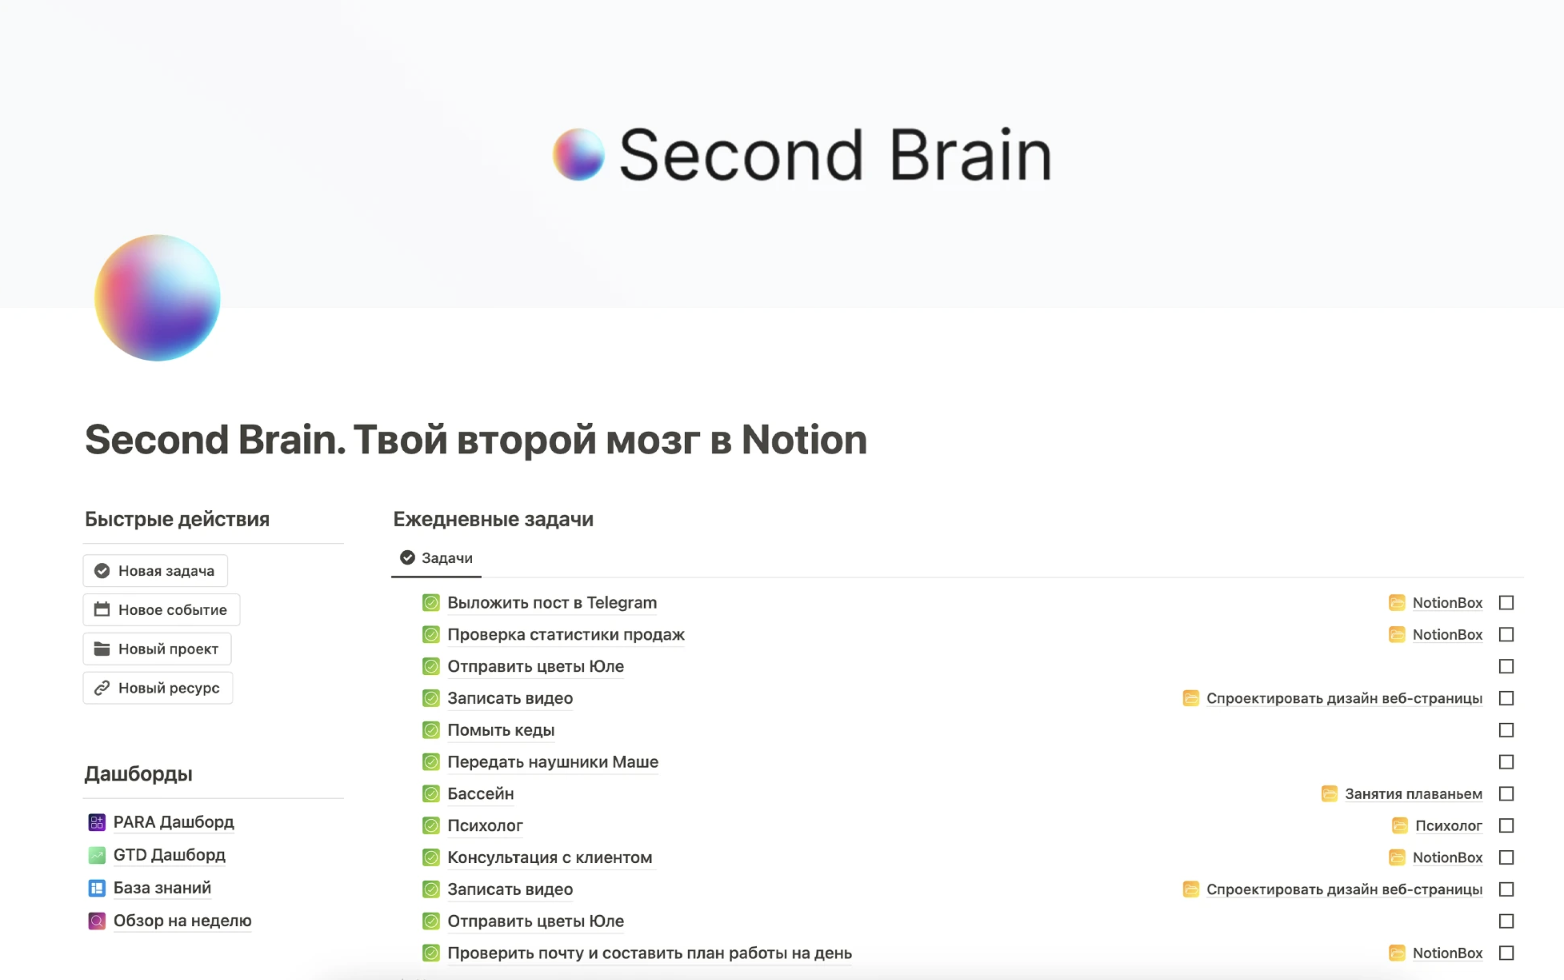
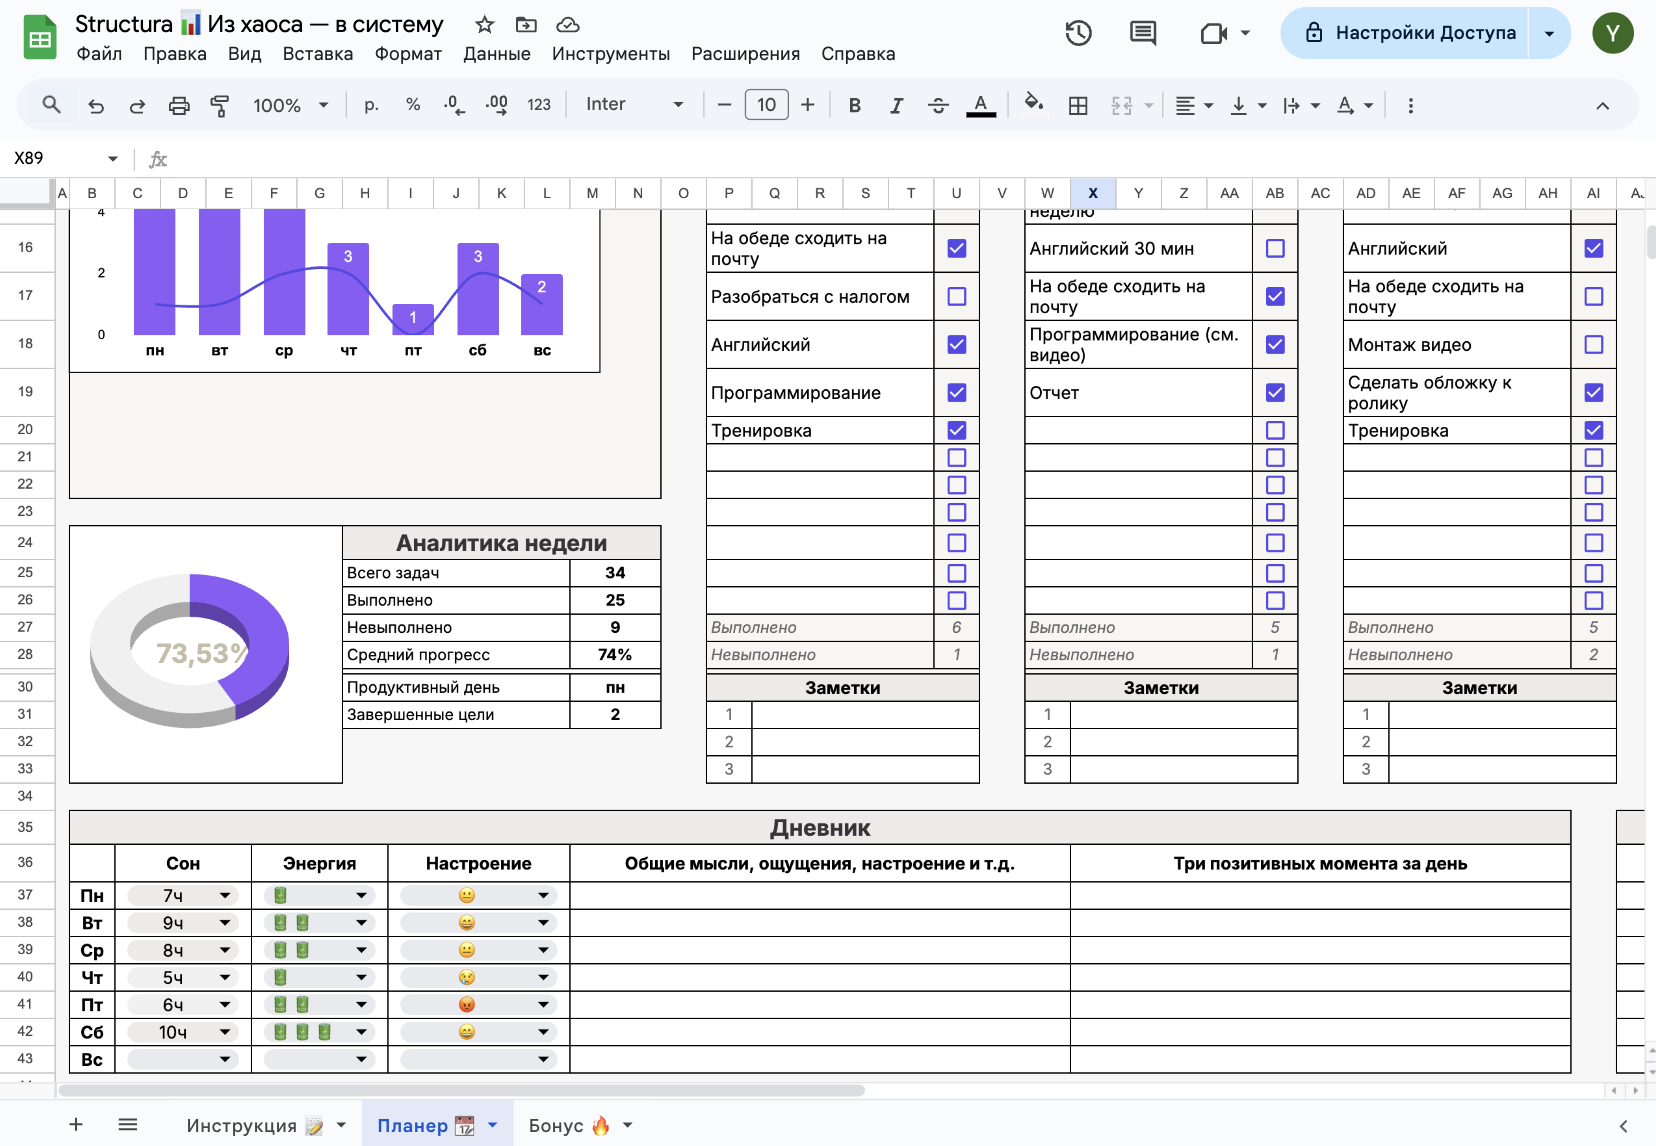
fix text

diff --git a/src/components/Hero.module.scss b/src/components/Hero.module.scss
@@ -4,23 +4,27 @@
   display: flex;
   flex-direction: column;
   align-items: center;
-  padding: 0 20px 20px 20px;
+  padding: 40px 20px 20px;
   text-align: center;
-  background: linear-gradient(180deg, #4f46e5 0%, #8b5cf6 40%, #ffffff 100%);
+  background: linear-gradient(180deg, #4f46e5 0%, #8b5cf6 45%, #ffffff 100%);
+}
+
+.logoLink {
+  display: inline-flex;
+  margin-bottom: 20px;
 }
 
 .logo {
   width: 120px;
   height: auto;
-  margin-bottom: 20px;
 }
 
 .title {
   font-size: 6rem;
   font-weight: 700;
   color: #ffffff;
-  margin-bottom: 10px;
-  text-shadow: 0 2px 8px rgba(0, 0, 0, 0.3);
+  margin-bottom: 8px;
+  text-shadow: 0 4px 14px rgba(0, 0, 0, 0.35);
 }
 
 .subtitle {
@@ -33,46 +37,37 @@
 .description {
   font-size: 1.1rem;
   color: #f3f4f6;
-  max-width: 740px;
-  margin-bottom: 10px;
-  line-height: 1.6;
-  text-shadow: 0 1px 2px rgba(0, 0, 0, 0.2);
-}
-
-.buttonGroup {
-  display: flex;
-  gap: 16px;
-  margin-top: 20px;
-  width: 740px;
+  max-width: 760px;
+  line-height: 1.65;
+  margin-bottom: 20px;
+  text-shadow: 0 1px 3px rgba(0, 0, 0, 0.25);
 }
 
 .price {
-  margin: 20px 0 0;
+  margin-top: 16px;
+  display: flex;
+  align-items: center;
+  gap: 14px;
   font-size: 2rem;
   font-weight: 700;
-  display: flex;
-  justify-content: center;
-  align-items: center;
-  gap: 16px;
 
   .current {
     color: #ffffff;
-    text-shadow: 0 1px 4px rgba(0, 0, 0, 0.3);
   }
 
   .old {
-    color: #c7d2e2;
-    text-decoration: line-through;
-    font-weight: 500;
     font-size: 1.2rem;
+    font-weight: 500;
+    color: #c7d2fe;
+    text-decoration: line-through;
   }
 }
 
 .note {
-  margin-top: 18px;
+  margin-top: 14px;
   font-size: 0.85rem;
   color: #e0e7ff;
-  opacity: 0.85;
+  opacity: 0.9;
   display: inline-flex;
   align-items: center;
   gap: 6px;
@@ -85,100 +80,85 @@
   transform: translateY(1px);
 }
 
-.button {
+.buttonGroup {
+  margin-top: 26px;
+  display: flex;
+  gap: 16px;
   width: 100%;
-  max-width: 400px;
+  max-width: 760px;
+}
+
+.button {
+  flex: 1;
   padding: 14px 0;
-  margin-top: 10px;
-  font-size: 1.1rem;
+  font-size: 1.05rem;
   font-weight: 600;
-  background-color: var.$primary-color;
-  color: #fff;
+  background-color: #ffffff;
+  color: var.$primary-color;
   border: none;
-  border-radius: 12px;
+  border-radius: 14px;
   cursor: pointer;
-  transition: background-color 0.2s, transform 0.2s;
-  text-align: center;
+  transition: transform 0.2s ease, box-shadow 0.2s ease;
 
   &:hover {
     transform: translateY(-2px);
-    box-shadow: 0 10px 25px rgba(79, 70, 229, 0.35);
-  }
-
-  &:active {
-    transform: translateY(0);
+    box-shadow: 0 14px 30px rgba(0, 0, 0, 0.25);
   }
 }
 
 .buttonOutline {
-  width: 100%;
-  max-width: 400px;
-  padding: 12px 0;
-  margin-top: 10px;
-  font-size: 1.1rem;
+  flex: 1;
+  padding: 14px 0;
+  font-size: 1.05rem;
   font-weight: 600;
   text-decoration: none;
-  background-color: transparent;
-  color: #e0e7ff;
-  border: 2px solid transparent;
-  border-radius: 12px;
-  cursor: pointer;
-  text-align: center;
-  transition: all 0.3s;
-  background-clip: padding-box;
+  color: #ffffff;
+  border-radius: 14px;
   position: relative;
-  z-index: 0;
+  z-index: 1;
+  overflow: hidden;
+  border: 2px solid transparent;
+  background: transparent;
+  transition: transform 0.2s ease, box-shadow 0.2s ease;
 
-  &:before {
+  &::before {
     content: "";
     position: absolute;
-    top: -2px;
-    left: -2px;
-    right: -2px;
-    bottom: -2px;
+    inset: 0;
     border-radius: 14px;
-    background: linear-gradient(90deg, #b5b1f4, #8b5cf6);
+    padding: 2px;
+    background: linear-gradient(90deg, #c7d2fe, #a78bfa);
+    -webkit-mask: linear-gradient(#fff 0 0) content-box,
+      linear-gradient(#fff 0 0);
+    -webkit-mask-composite: xor;
+    mask-composite: exclude;
     z-index: -1;
   }
 
   &:hover {
-    color: var.$primary-color;
     transform: translateY(-2px);
-    box-shadow: 0 10px 25px rgba(79, 70, 229, 0.35);
-  }
-
-  &:active {
-    transform: translateY(0);
+    box-shadow: 0 14px 30px rgba(0, 0, 0, 0.25);
   }
 }
 
-.videoWrapper {
-  margin-top: 30px;
+.videoSection {
+  margin-top: 48px;
   width: 100%;
-  max-width: 740px;
-
-  video {
-    width: 100%;
-    border-radius: 12px;
-    box-shadow: 0 10px 20px rgba(0, 0, 0, 0.1);
-  }
+  max-width: 960px;
+  aspect-ratio: 16 / 9;
+  border-radius: 22px;
+  overflow: hidden;
+  background: #000;
+  box-shadow: 0 30px 60px rgba(0, 0, 0, 0.35);
 }
 
-@media (max-width: 600px) {
-  .button {
-    font-size: 1rem;
-    margin-top: 0;
-  }
+.video {
+  width: 100%;
+  height: 100%;
+  object-fit: cover;
+}
 
-  .buttonOutline {
-    font-size: 1rem;
-    margin-top: 0;
-  }
-
-  .buttonOutline .title {
-    font-size: 2.5rem;
-  }
-
+@media (max-width: 768px) {
   .title {
     font-size: 4rem;
   }
@@ -193,8 +173,10 @@
 
   .buttonGroup {
     flex-direction: column;
-    align-items: center;
-    gap: 10px;
-    width: 100%;
+  }
+
+  .videoSection {
+    margin-top: 36px;
+    border-radius: 16px;
   }
 }

diff --git a/src/components/ProductInfo.tsx b/src/components/ProductInfo.tsx
@@ -18,12 +18,12 @@ const ProductInfo: React.FC = () => {
         <p className={styles.text}>
           Structura&nbsp;&mdash; это личная система планирования в&nbsp;формате
           Google-таблицы, которая превращает хаос задач в&nbsp;чёткий план
-          действий. Все цели, приоритеты, дедлайны и&nbsp;прогресс собраны
-          в&nbsp;одном месте, автоматически считаются и&nbsp;отображаются
-          в&nbsp;наглядных графиках. Вы&nbsp;в&nbsp;любой момент видите, куда
-          уходит время, что действительно важно сейчас и&nbsp;как
-          вы&nbsp;двигаетесь к&nbsp;результату&nbsp;&mdash; спокойно, структурно
-          и&nbsp;под полным контролем.
+          действий. Все цели, приоритеты и&nbsp;прогресс собраны в&nbsp;одном
+          месте, автоматически считаются и&nbsp;отображаются в&nbsp;наглядных
+          графиках. Вы&nbsp;в&nbsp;любой момент видите, куда уходит время, что
+          действительно важно сейчас и&nbsp;как вы&nbsp;двигаетесь
+          к&nbsp;результату&nbsp;&mdash; спокойно, структурно и&nbsp;под полным
+          контролем.
         </p>
       </div>
 
@@ -36,13 +36,13 @@ const ProductInfo: React.FC = () => {
             loop
           >
             <SwiperSlide>
-              <img src="/screens/screen-1.png" alt="Цели и чеклисты" />
+              <img src="/screens/screen-1.png" alt="Скриншот планер" />
             </SwiperSlide>
             <SwiperSlide>
-              <img src="/screens/screen-2.png" alt="Прогресс и аналитика" />
+              <img src="/screens/screen-2.png" alt="Скриншот планер" />
             </SwiperSlide>
             <SwiperSlide>
-              <img src="/screens/screen-3.png" alt="Дневник и привычки" />
+              <img src="/screens/screen-3.png" alt="Скриншот планер" />
             </SwiperSlide>
           </Swiper>
         </div>
@@ -50,7 +50,7 @@ const ProductInfo: React.FC = () => {
         <div className={styles.features}>
           <h3>Что входит в планер</h3>
           <ul>
-            <li>Цели недели с чек-листами и приоритетами</li>
+            <li>Цели недели с чек-листами</li>
             <li>Ежедневные задачи по дням</li>
             <li>Прогресс дня и недели (диаграммы)</li>
             <li>Трекер привычек и продуктивности</li>

diff --git a/src/components/Hero.tsx b/src/components/Hero.tsx
@@ -19,8 +19,8 @@ const Hero: React.FC = () => {
       <h1 className={styles.title}>Structura</h1>
       <h2 className={styles.subtitle}>Из хаоса — в систему</h2>
       <p className={styles.description}>
-        Ваш персональный планер, который превращает цели в&nbsp;чёткий план
-        действий: разбивает задачи на&nbsp;шаги, отслеживает прогресс
+        Ваш персональный планер на неделю, который превращает цели в&nbsp;чёткий
+        план действий: разбивает задачи на&nbsp;шаги, отслеживает прогресс
         и&nbsp;каждый день показывает, на&nbsp;чём действительно стоит
         сосредоточиться, чтобы достигать результатов без стресса.
       </p>
@@ -45,8 +45,16 @@ const Hero: React.FC = () => {
           Подробнее
         </a>
       </div>
-      <div className={styles.videoWrapper}>
-        <video src="/video/demo.mp4" controls className={styles.video} />
+      <div className={styles.videoSection}>
+        <video
+          src="/video/demo.mp4"
+          autoPlay
+          loop
+          muted
+          playsInline
+          preload="metadata"
+          className={styles.video}
+        />
       </div>
     </section>
   );

diff --git a/src/components/Advantages.tsx b/src/components/Advantages.tsx
@@ -16,9 +16,9 @@ const Advantages: React.FC = () => {
           <span className={styles.tag}>Цели</span>
           <h3 className={styles.title}>Для целей и повседневных задач</h3>
           <p className={styles.text}>
-            Когда нужно держать под контролем и&nbsp;большие цели на&nbsp;год
-            или квартал, и&nbsp;ежедневные дела. Structura помогает разложить
-            всё по&nbsp;полочкам, отслеживать прогресс, видеть реальную картину
+            Когда нужно держать под контролем и&nbsp;большие цели,
+            и&nbsp;ежедневные дела. Structura помогает разложить всё
+            по&nbsp;полочкам, отслеживать прогресс, видеть реальную картину
             в&nbsp;цифрах и&nbsp;графиках &mdash; без ощущения перегруза
             и&nbsp;хаоса.
           </p>

diff --git a/src/components/FAQ.tsx b/src/components/FAQ.tsx
@@ -7,12 +7,12 @@ const faqs = [
   {
     question: "Как быстро я получу доступ к планеру?",
     answer:
-      "После оплаты на вашу почту придёт письмо со ссылкой на Google Таблицу. Откройте её и выберите «Создать копию» — можно сразу начинать работу.",
+      "После оплаты на вашу почту придёт письмо со ссылкой на Google Таблицу. Откройте её и выберите «Создать копию» — можно сразу начинать работу. Внутри вы найдёте понятную инструкцию, как работать в планере.",
   },
   {
     question: "Нужно ли что-то устанавливать?",
     answer:
-      "Таблица работает прямо в браузере. Для работы нужен только Google-аккаунт (если у вас есть Gmail или YouTube, то значит Google-аккаунт уже есть).",
+      "Таблица работает прямо в браузере. Для работы нужен только Google-аккаунт (если у вас есть Gmail или YouTube, то значит Google-аккаунт у вас уже есть).",
   },
   {
     question: "Можно пользоваться на телефоне?",
@@ -22,7 +22,7 @@ const faqs = [
   {
     question: "Что делать, если письмо с таблицей не пришло?",
     answer:
-      "Проверьте папки «Спам» и «Промоакции». Если письма нет, напишите нам на [email redacted], указав e-mail, который использовался при оплате — мы поможем оперативно.",
+      "Проверьте папки «Спам» и «Промоакции». Если письма нет, пожалуйста, напишите нам на [email redacted], указав e-mail, который использовался при оплате — мы поможем оперативно.",
   },
 ];
 

diff --git a/src/components/BuySection.tsx b/src/components/BuySection.tsx
@@ -17,10 +17,8 @@ const BuySection: React.FC = () => {
         <div className={styles.features}>
           <h3>Что входит в ваш планер</h3>
           <ul>
-            <li>Система постановки целей</li>
-            <li>Подцели и чек-листы</li>
+            <li>Система постановки целей и чек-листы</li>
             <li>Планирование по дням</li>
-            <li>Таймлайн и сроки</li>
             <li>Графики прогресса</li>
             <li>Трекер привычек</li>
             <li>Дневник состояния</li>